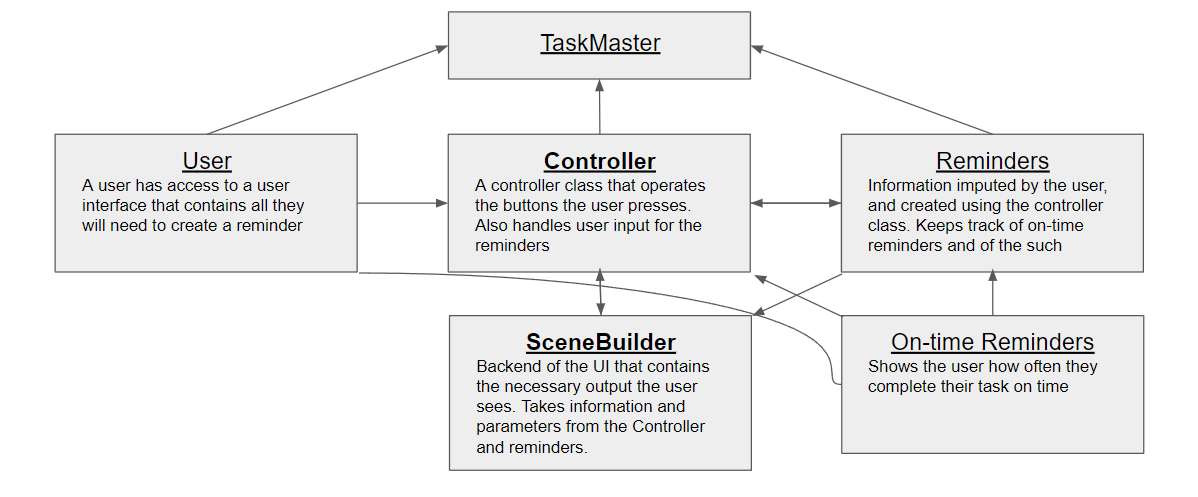
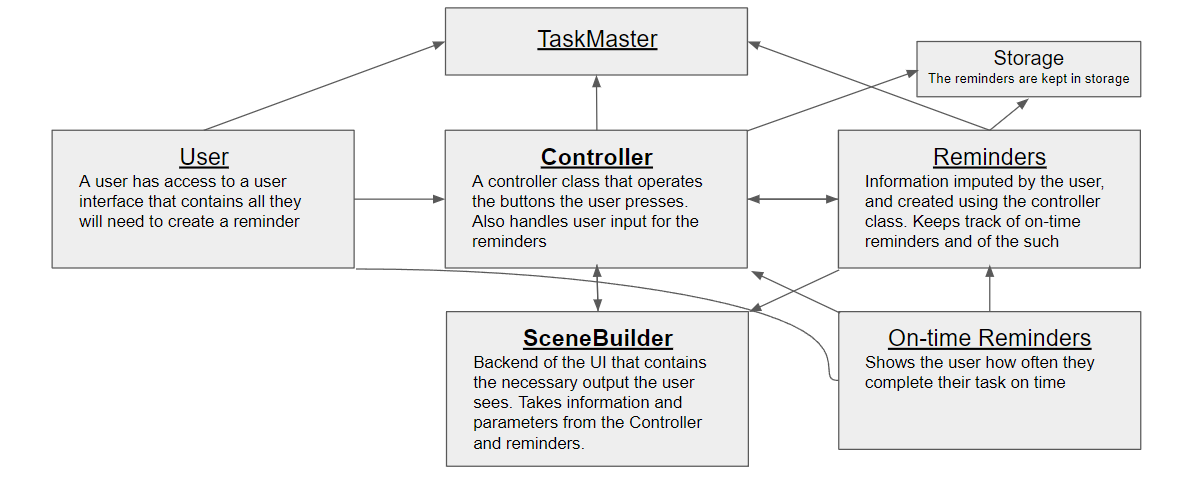
init req

diff --git a/requirements.md b/requirements.md
@@ -37,14 +37,25 @@ The application provides the user with an interface where he/she can setup their
 + **Project Site Repository:** [Behind the scenes of our page!](https://github.com/alenrtan/amaa-team.github.io)
 + **JavaFX Website:** [This is the resource we plan to use to make our program look great!](https://openjfx.io/)
 
-### <br>2.1 Context of Product<br>
-Our project will be a desktop program that runs locally on the user's computer/laptop.
+### <br> 2.1 Context of Product <br>
+- Our project will be a desktop program that runs locally on the user's computer/laptop.
 
 ### <br>2.2 Domain Model with Description<br>
-Display and describe your domain model.
+![Domain Model for TaskMaster](https://alenrtan.github.io/amaa-team.github.io/DomainModel.png) <br>
+The domain model above is a general representation of the TaskMaster application. The TaskMaster application relies on the 3 different major parts: 
+  1. User
+  2. Controller
+  3. Reminders
+
+The user represents the most "top-level" in the hierarchy. The user has access to the other relative sections, as the user is where the information comes from. Once there is information to store, user input, then it will be sent to the Controller class `controller.java` <br>
+
+The controller class is what handles the buttons and forms that the user can interact with. It is the bridge between the user and the creation of reminders.
+<br>
+
+The reminders is where all the 
 
 ### <br>2.3 Product Functions (general)<br>
-The Taskmaster program will have functionality for the user to add tasks to a list which the program will keep track of. The program will remind users to complete tasks, and will additionally provide encouragement through offering motivational quotes along with the reminders.
+- The Taskmaster program will have functionality for the user to add tasks to a list which the program will keep track of. The program will remind users to complete tasks, and will additionally provide encouragement through offering motivational quotes along with the reminders.
 
 ### <br>2.4 User Characteristics and Expectations<br>
 Describe your users and their abilities.
